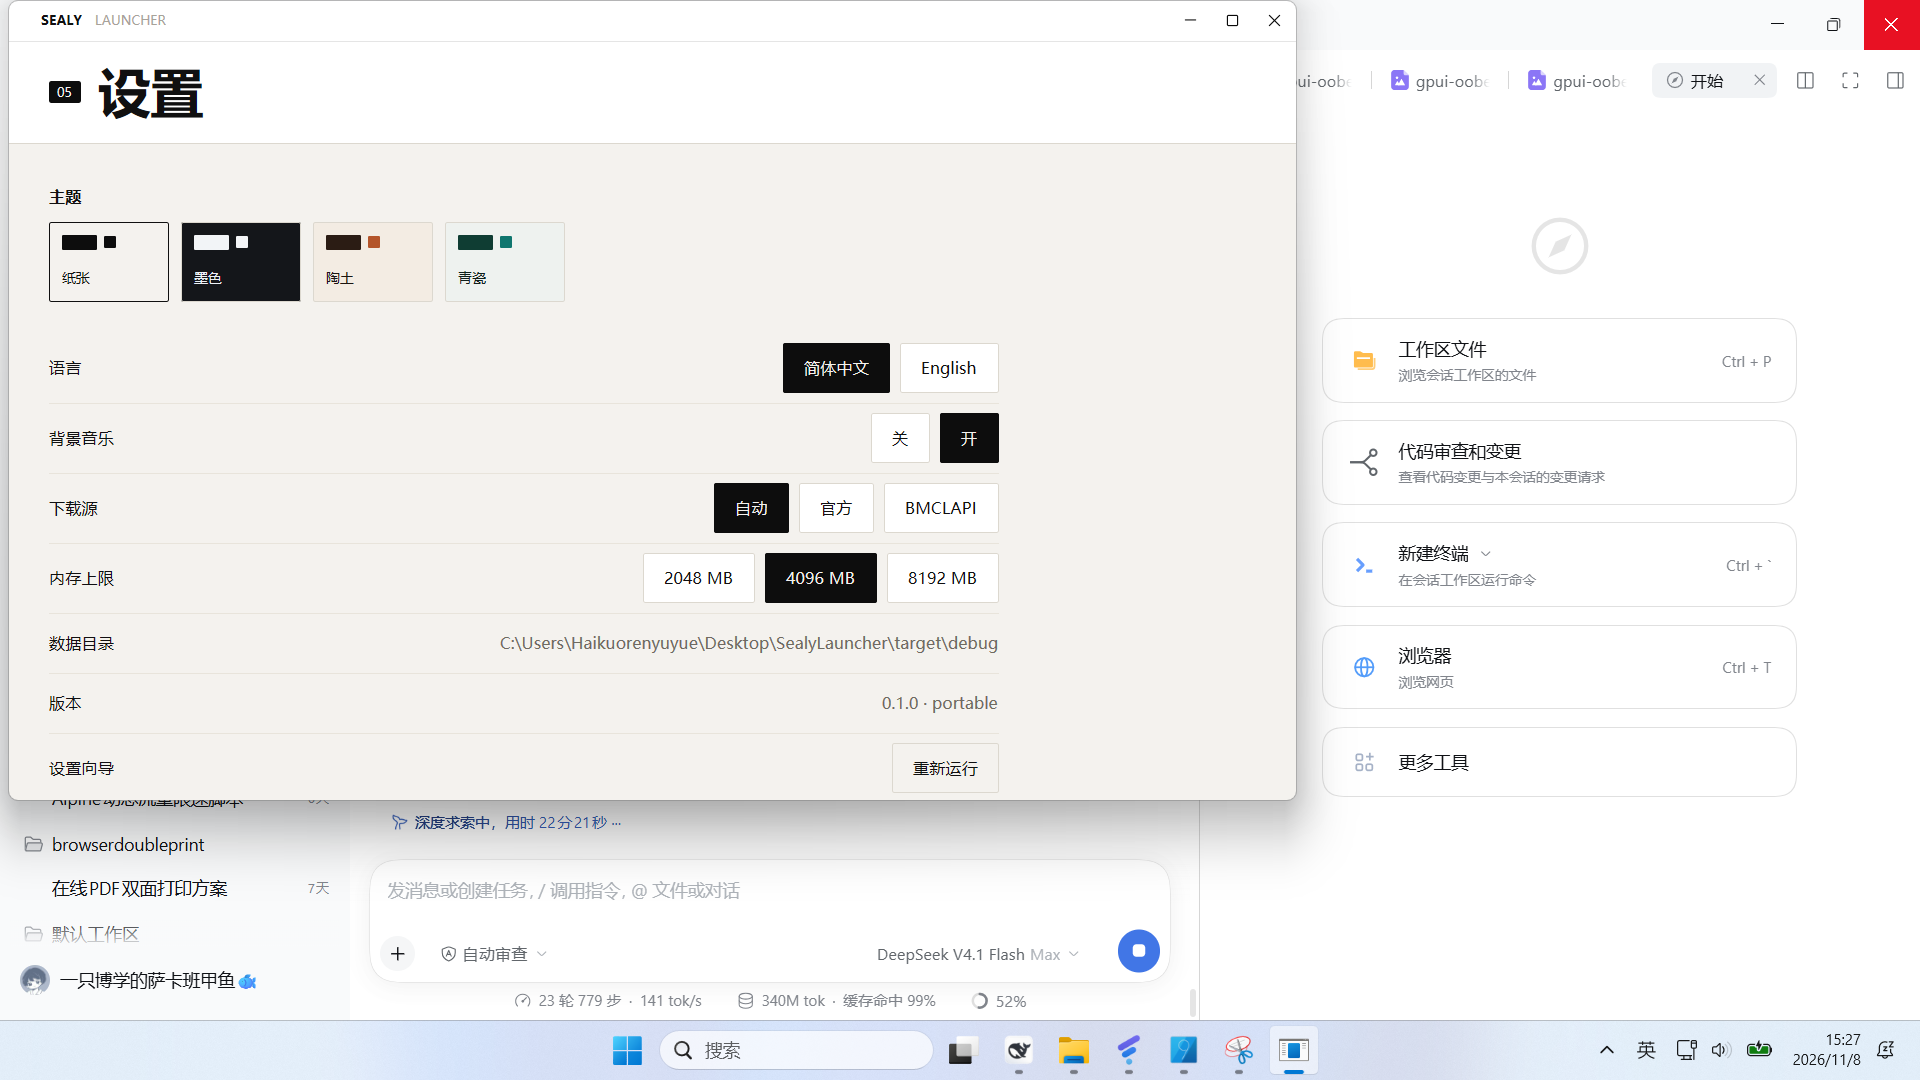
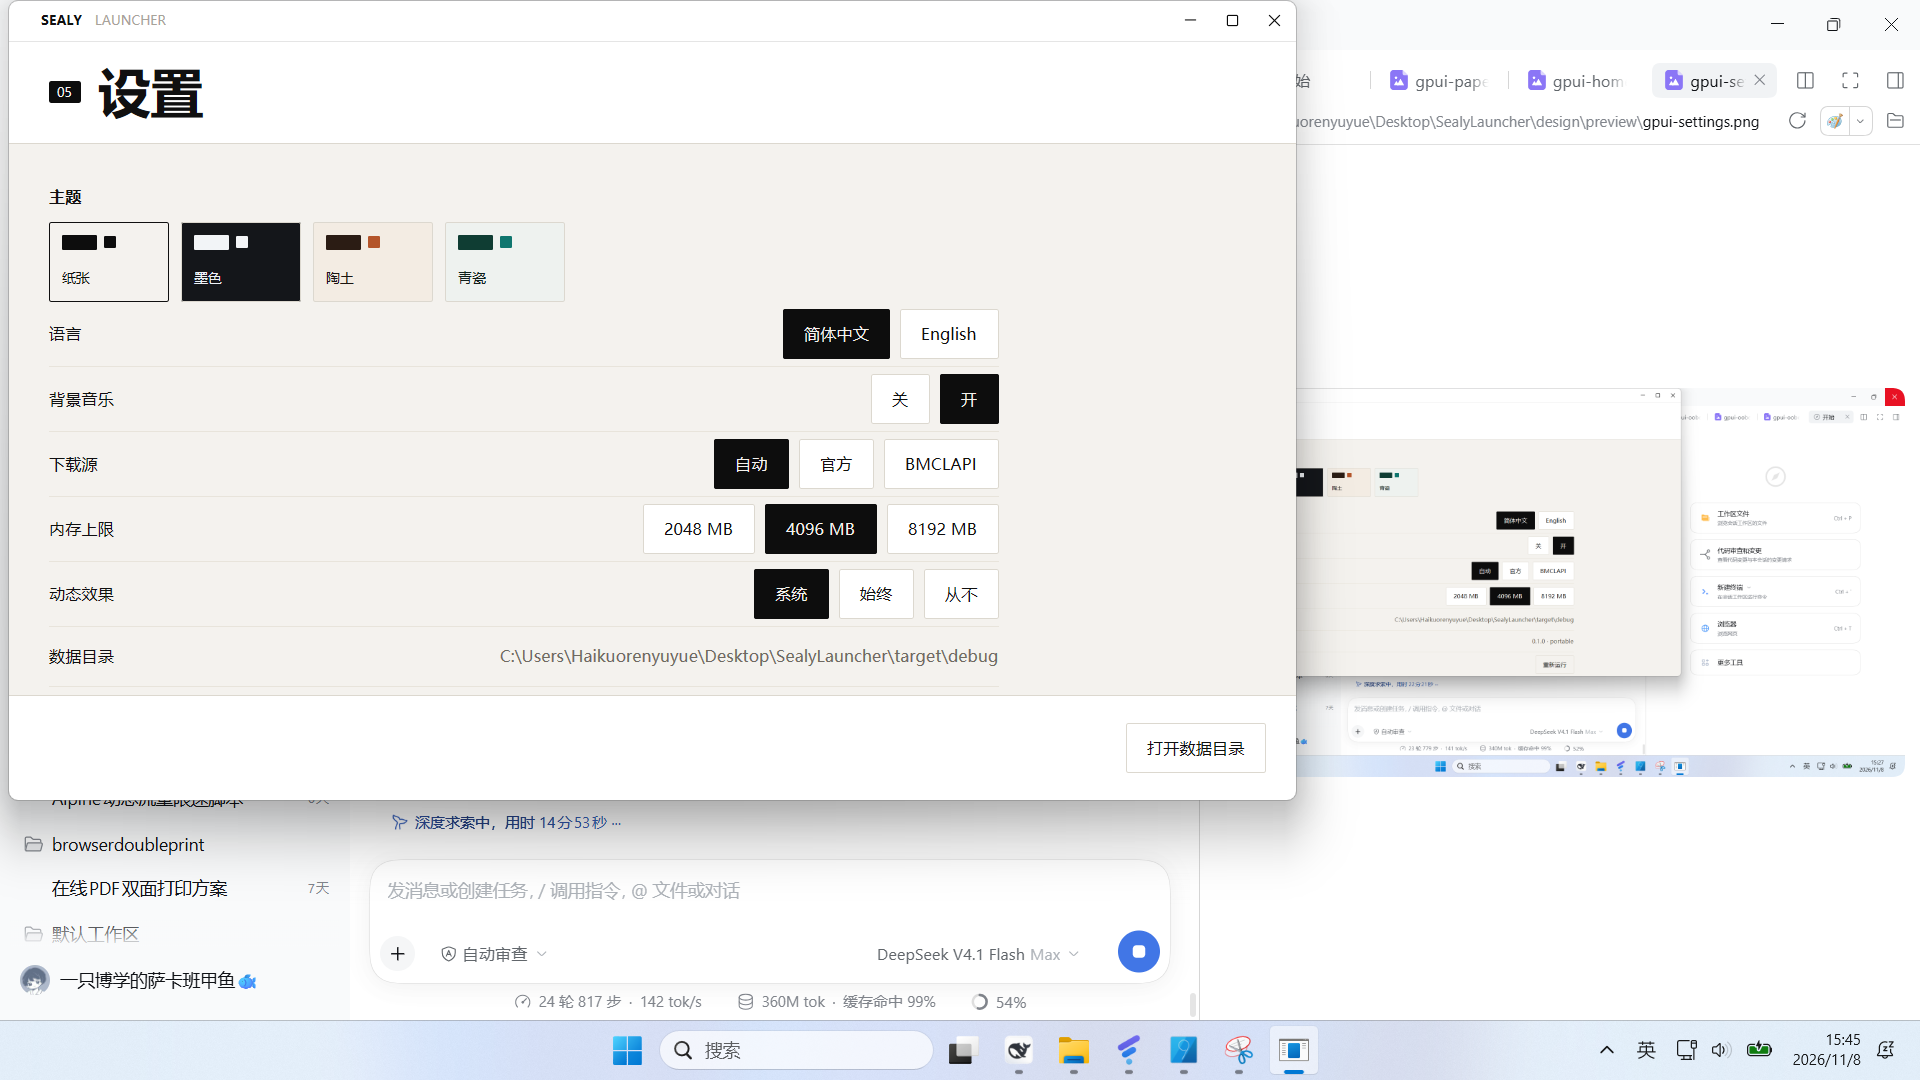
feat: add keyboard shortcuts and motion preference

diff --git a/crates/sealy-ui/src/pages/settings.rs b/crates/sealy-ui/src/pages/settings.rs
@@ -1,6 +1,6 @@
 //! Settings: theme, language, audio, download source, memory.
 
-use sealy_core::config::{Language, SourcePolicy, ThemeName};
+use sealy_core::config::{Language, MotionSetting, SourcePolicy, ThemeName};
 
 use crate::app::SealyShell;
 use crate::components::{action_bar, choice_button, field_row, head_band, quiet_button};
@@ -22,6 +22,7 @@ pub(crate) fn render(state: &ShellState, cx: &mut Context<SealyShell>) -> AnyEle
     let music = state.settings.appearance.background_music;
     let source = state.settings.download.metadata_source;
     let memory = state.settings.java.memory.max_mb;
+    let motion = state.settings.motion;
 
     div()
         .size_full()
@@ -31,6 +32,8 @@ pub(crate) fn render(state: &ShellState, cx: &mut Context<SealyShell>) -> AnyEle
         .child(
             div()
                 .flex_1()
+                .id("settings-body")
+                .overflow_y_scroll()
                 .p(px(theme::PAGE_PADDING))
                 .flex()
                 .flex_col()
@@ -48,7 +51,7 @@ pub(crate) fn render(state: &ShellState, cx: &mut Context<SealyShell>) -> AnyEle
                         )
                         .child(div().flex().gap(px(10.0)).children(swatches)),
                 )
-                .child(div().h(px(26.0)))
+                .child(div().h(px(18.0)))
                 .child(
                     div()
                         .w(px(760.0))
@@ -141,6 +144,34 @@ pub(crate) fn render(state: &ShellState, cx: &mut Context<SealyShell>) -> AnyEle
                                 .child(memory_button(8192, memory, lang, &t, cx)),
                             &t,
                         ))
+                        .child(row(
+                            tr(lang, "动态效果", "Motion"),
+                            div()
+                                .flex()
+                                .gap(px(8.0))
+                                .child(motion_button(
+                                    tr(lang, "系统", "System"),
+                                    MotionSetting::System,
+                                    motion,
+                                    &t,
+                                    cx,
+                                ))
+                                .child(motion_button(
+                                    tr(lang, "始终", "Always"),
+                                    MotionSetting::Always,
+                                    motion,
+                                    &t,
+                                    cx,
+                                ))
+                                .child(motion_button(
+                                    tr(lang, "从不", "Never"),
+                                    MotionSetting::Never,
+                                    motion,
+                                    &t,
+                                    cx,
+                                )),
+                            &t,
+                        ))
                         .child(field_row(
                             tr(lang, "数据目录", "Data directory"),
                             data_dir,
@@ -182,7 +213,7 @@ pub(crate) fn render(state: &ShellState, cx: &mut Context<SealyShell>) -> AnyEle
 
 fn row(label: &'static str, control: impl IntoElement, t: &ThemeTokens) -> Div {
     div()
-        .h(px(56.0))
+        .h(px(52.0))
         .flex()
         .items_center()
         .justify_between()
@@ -232,6 +263,26 @@ fn memory_button(
         .id(("memory", mb as usize))
         .on_click(cx.listener(move |shell, _, _, cx| {
             shell.state.set_max_memory(mb);
+            cx.notify();
+        }))
+        .into_any_element()
+}
+
+fn motion_button(
+    label: &'static str,
+    value: MotionSetting,
+    current: MotionSetting,
+    t: &ThemeTokens,
+    cx: &mut Context<SealyShell>,
+) -> AnyElement {
+    choice_button(label, value == current, t)
+        .id(match value {
+            MotionSetting::System => "motion-system",
+            MotionSetting::Always => "motion-always",
+            MotionSetting::Never => "motion-never",
+        })
+        .on_click(cx.listener(move |shell, _, _, cx| {
+            shell.state.set_motion(value);
             cx.notify();
         }))
         .into_any_element()

diff --git a/crates/sealy-ui/src/app.rs b/crates/sealy-ui/src/app.rs
@@ -4,7 +4,7 @@ use gpui_kit::component::TitleBar;
 
 use crate::kit::*;
 use crate::pages;
-use crate::state::ShellState;
+use crate::state::{Route, ShellState};
 use crate::theme;
 
 /// Starts the GPUI application and opens the shell window.
@@ -26,7 +26,7 @@ pub fn run(bootstrap: sealy_core::Bootstrap) {
             };
 
             gpui_kit::open_window(options, cx, move |_, cx| {
-                cx.new(|_| SealyShell::new(bootstrap))
+                cx.new(|cx| SealyShell::new(bootstrap, cx))
             })
             .expect("failed to open the SealyLauncher window");
         });
@@ -34,18 +34,24 @@ pub fn run(bootstrap: sealy_core::Bootstrap) {
 
 pub(crate) struct SealyShell {
     pub(crate) state: ShellState,
+    focus: FocusHandle,
 }
 
 impl SealyShell {
-    fn new(bootstrap: sealy_core::Bootstrap) -> Self {
+    fn new(bootstrap: sealy_core::Bootstrap, cx: &mut Context<Self>) -> Self {
         Self {
             state: ShellState::from_bootstrap(bootstrap),
+            focus: cx.focus_handle(),
         }
     }
 }
 
 impl Render for SealyShell {
-    fn render(&mut self, _window: &mut Window, cx: &mut Context<Self>) -> impl IntoElement {
+    fn render(&mut self, window: &mut Window, cx: &mut Context<Self>) -> impl IntoElement {
+        if window.focused(cx).is_none() {
+            window.focus(&self.focus, cx);
+        }
+
         let tokens = self.state.theme();
         let page = pages::render(&self.state, cx);
         let notice = self
@@ -58,6 +64,7 @@ impl Render for SealyShell {
             .id("shell")
             .role(Role::Application)
             .aria_label("SealyLauncher")
+            .track_focus(&self.focus)
             .size_full()
             .flex()
             .flex_col()
@@ -71,6 +78,56 @@ impl Render for SealyShell {
             )
             .child(div().flex_1().overflow_hidden().child(page))
             .children(notice)
+            .on_key_down(cx.listener(|shell, event: &KeyDownEvent, _, cx| {
+                shell.handle_key(&event.keystroke, cx);
+            }))
+    }
+}
+
+impl SealyShell {
+    /// Window-wide shortcuts: Enter runs the primary action, Escape steps back,
+    /// digits jump between pages.
+    fn handle_key(&mut self, keystroke: &Keystroke, cx: &mut Context<Self>) {
+        let modifiers = &keystroke.modifiers;
+        if modifiers.control || modifiers.alt || modifiers.platform || modifiers.shift {
+            return;
+        }
+
+        match keystroke.key.as_str() {
+            "enter" | "space" => {
+                if self.state.oobe_step.is_some() {
+                    self.state.oobe_next();
+                } else if self.state.route == Route::Home {
+                    self.state.notify("启动流程将在 Phase 2 接入");
+                } else {
+                    return;
+                }
+                cx.notify();
+            }
+            "escape" if self.state.oobe_step.is_some() => {
+                self.state.oobe_back();
+                cx.notify();
+            }
+            key => {
+                if self.state.oobe_step.is_none()
+                    && let Some(route) = digit_route(key)
+                {
+                    self.state.route = route;
+                    cx.notify();
+                }
+            }
+        }
+    }
+}
+
+fn digit_route(key: &str) -> Option<Route> {
+    match key {
+        "1" => Some(Route::Home),
+        "2" => Some(Route::Instances),
+        "3" => Some(Route::Downloads),
+        "4" => Some(Route::Accounts),
+        "5" => Some(Route::Settings),
+        _ => None,
     }
 }
 

diff --git a/crates/sealy-ui/src/pages/home.rs b/crates/sealy-ui/src/pages/home.rs
@@ -1,6 +1,6 @@
 //! Home: tile dashboard with a persistent launch action.
 
-use sealy_core::config::Language;
+use sealy_core::config::{Language, MotionSetting};
 use std::time::Duration;
 
 use crate::app::SealyShell;
@@ -83,7 +83,7 @@ pub(crate) fn render(state: &ShellState, cx: &mut Context<SealyShell>) -> AnyEle
         .size_full()
         .flex()
         .flex_col()
-        .child(head_band_carousel(&t, lang))
+        .child(head_band_carousel(&t, lang, state.settings.motion))
         .child(
             div()
                 .flex_1()
@@ -306,13 +306,12 @@ fn action_bar_content(t: &ThemeTokens, lang: Language, cx: &mut Context<SealyShe
 }
 
 /// Head band whose title crossfades between the launcher name and the signed-in
-/// greeting on an eight-second loop.
-fn head_band_carousel(t: &ThemeTokens, lang: Language) -> Div {
-    let clock = Animation::new(Duration::from_secs(8)).repeat_synced();
-    let greeting = format!("Hi，{PLACEHOLDER_USER}");
+/// greeting on an eight-second loop. When motion is disabled the launcher name
+/// stays put.
+fn head_band_carousel(t: &ThemeTokens, lang: Language, motion: MotionSetting) -> Div {
     let _ = lang;
 
-    div()
+    let mut band = div()
         .h(px(theme::HEAD_HEIGHT))
         .flex_shrink_0()
         .flex()
@@ -322,20 +321,35 @@ fn head_band_carousel(t: &ThemeTokens, lang: Language) -> Div {
         .bg(rgb(t.surface))
         .border_b_1()
         .border_color(rgb(t.line))
-        .child(index_badge("01", t))
-        .child(
+        .child(index_badge("01", t));
+
+    if motion == MotionSetting::Never {
+        return band.child(
             div()
-                .relative()
-                .flex_1()
-                .h(px(56.0))
-                .child(title_slide(
-                    "SealyLauncher".to_owned(),
-                    true,
-                    clock.clone(),
-                    t,
-                ))
-                .child(title_slide(greeting, false, clock, t)),
-        )
+                .text_size(px(42.0))
+                .font_weight(FontWeight::SEMIBOLD)
+                .text_color(rgb(t.text))
+                .child("SealyLauncher"),
+        );
+    }
+
+    let clock = Animation::new(Duration::from_secs(8)).repeat_synced();
+    let greeting = format!("Hi，{PLACEHOLDER_USER}");
+
+    band = band.child(
+        div()
+            .relative()
+            .flex_1()
+            .h(px(56.0))
+            .child(title_slide(
+                "SealyLauncher".to_owned(),
+                true,
+                clock.clone(),
+                t,
+            ))
+            .child(title_slide(greeting, false, clock, t)),
+    );
+    band
 }
 
 fn title_slide(text: String, first: bool, clock: Animation, t: &ThemeTokens) -> impl IntoElement {

diff --git a/crates/sealy-ui/src/kit.rs b/crates/sealy-ui/src/kit.rs
@@ -7,7 +7,7 @@ pub use gpui_kit::assets::IconName;
 pub use gpui_kit::component::Icon;
 pub use gpui_kit::prelude::*;
 pub use gpui_kit::{
-    Animation, AnimationExt, AnyElement, Bounds, Context, Div, ElementId, FontWeight, IntoElement,
-    Render, Rgba, Role, SharedString, Window, WindowBounds, WindowOptions, div, px, relative, rgb,
-    rgba, size,
+    Animation, AnimationExt, AnyElement, Bounds, Context, Div, ElementId, FocusHandle, FontWeight,
+    IntoElement, KeyDownEvent, Keystroke, Render, Rgba, Role, SharedString, Window, WindowBounds,
+    WindowOptions, div, px, relative, rgb, rgba, size,
 };

diff --git a/crates/sealy-ui/src/state.rs b/crates/sealy-ui/src/state.rs
@@ -193,6 +193,12 @@ impl ShellState {
         self.persist();
     }
 
+    /// Changes the motion preference and persists settings.
+    pub fn set_motion(&mut self, motion: sealy_core::config::MotionSetting) {
+        self.settings.motion = motion;
+        self.persist();
+    }
+
     fn persist(&mut self) {
         // Inside the wizard nothing is written until the user finishes, so an
         // interrupted first run still shows the wizard next time.

diff --git a/CHANGELOG.md b/CHANGELOG.md
@@ -37,6 +37,7 @@
 - 2026-11-08 — 重写 `sealy-ui`：移除 M3 原型（`m3` 模块、`m3_demo`、`material-colors` 依赖）；`theme.rs` 改为 `ThemeTokens` + 4 套预设；`AppBar`/`ActionBar`/`Tile`/`Breadcrumb` 组件落地；主页改为磁贴布局，设置页可切换主题与语言并持久化；窗口 1120×700，最小 960×640。
 - 2026-11-08 — 修复与补全：最小窗口改为 1030×640（磁贴网格固定 950px）；`Assets`→`AllAssets` 修好缺失图标；标题栏跟随主题；`最近世界` 计数与右侧对齐；上一步按钮与主按钮同高。新增首启向导 `pages/oobe.rs`（语言 → 音频 → 完成），首次启动自动进入、完成后落盘，设置页可重新运行；主页与向导的中英文文案接入 `i18n::tr`。
 - 2026-11-08 — 主页调整：标题带改为「SealyLauncher ↔ Hi，用户名」8 秒循环（顺序淡入淡出，不重叠），左下角固定显示待启动实例（图标 + 名称 + 版本）；设置页补上背景音乐、下载源、内存上限三项并即时保存。
+- 2026-11-08 — 键盘与动效：窗口级快捷键 `Enter/Space` 触发主操作、`Esc` 在向导中返回上一步、`1`–`5` 切换页面（根元素持焦点，`track_focus` + `on_key_down`）；设置新增「动态效果：系统/始终/从不」，选「从不」时标题带停用轮播；设置页内容可滚动，行高收到 52。
 
 ### Verified
 
